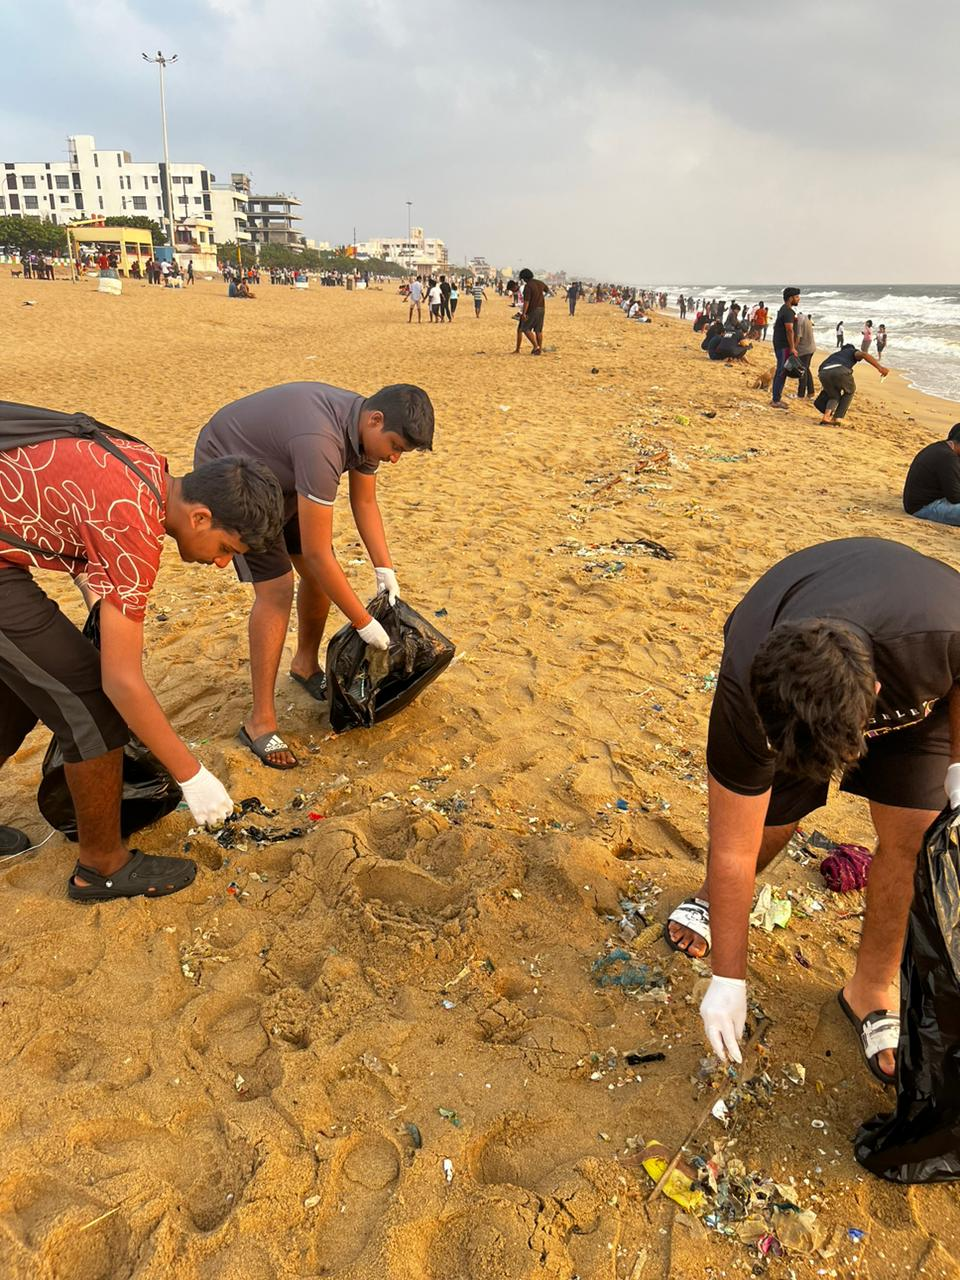
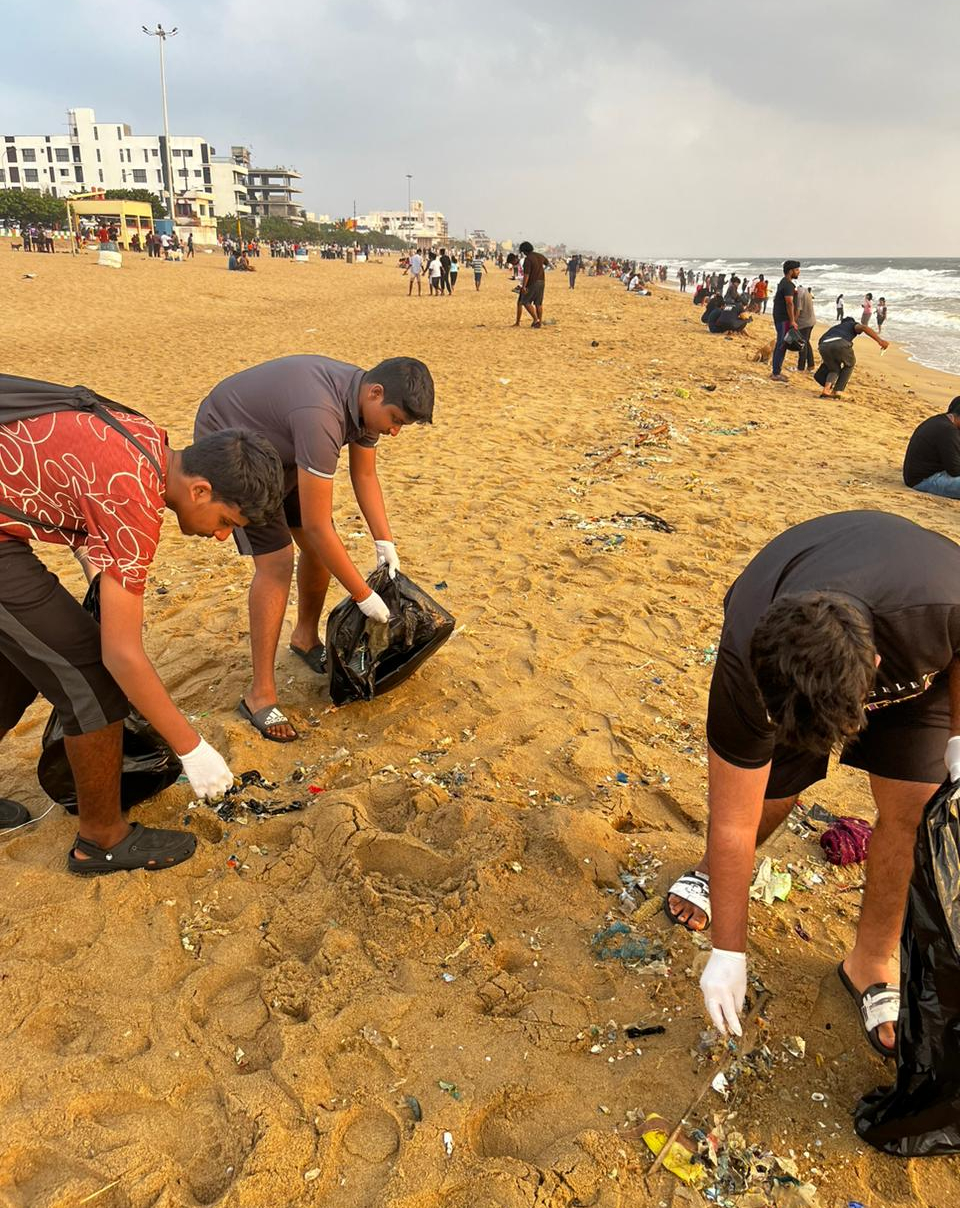
Added new Home page pictures from Chapter 6 and cropped the other images as well. Improved SEO through the new Head component.

diff --git a/src/components/Head.jsx b/src/components/Head.jsx
@@ -1,0 +1,48 @@
+import { Helmet } from "react-helmet-async";
+
+export default function Head({ pageTitle, description }) {
+  return (
+    <Helmet>
+      <title>{pageTitle}</title>
+      <meta name="description" content={description} />
+
+      <meta property="og:title" content={pageTitle} />
+      <meta property="og:description" content={description} />
+      <meta property="og:image" content="/shoreguardians-logo.png" />
+      <meta property="og:url" content="https://shoreguardians.club" />
+      <meta property="og:type" content="website" />
+      <meta property="og:site_name" content="ShoreGuardians" />
+      <meta property="og:locale" content="en_US" />
+      <meta property="og:image:width" content="1200" />
+      <meta property="og:image:height" content="630" />
+
+      <meta name="twitter:card" content="summary_large_image" />
+      <meta name="twitter:title" content={pageTitle} />
+      <meta name="twitter:description" content={description} />
+      <meta name="twitter:image" content="/shoreguardians-logo.png" />
+
+      <link rel="canonical" href="https://shoreguardians.club" />
+
+      <script type="application/ld+json">
+        {`
+        {
+          "@context": "https://schema.org",
+          "@type": "Organization",
+          "name": "ShoreGuardians",
+          "url": "https://shoreguardians.club",
+          "logo": "/shoreguardians-logo.png",
+          "description": "${description}",
+          "author": {
+             "@type": "Person",
+             "name": "Badhri N Hari"
+           },
+          "sameAs": [
+            "https://www.instagram.com/shore.guardians",
+            "https://www.linkedin.com/company/shoreguardians/"
+          ]
+        }
+      `}
+      </script>
+    </Helmet>
+  );
+}

diff --git a/index.html b/index.html
@@ -11,34 +11,10 @@
     <title>ShoreGuardians</title>
 
     <meta
-      name="description"
-      content="Cleaning Chennai's Beaches, One Bag at a Time!"
-    />
-    <meta
       name="keywords"
       content="beach, cleanup, beach cleanup, environment, sustainability, eco-concious, volunteer, student volunteer, chennai, india, chennai student, chennai volunteer, chennai student volunteer, chennai beach, chennai beach cleanup, chennai cleanup, besant nagar, besant nagar beach, elliot's beach, swachh bharat, swachh bharat mission, shore, shoreguardians, ShoreGuardians, high school, high school club, chennai high school club, chennai high school, high school students initiative, students initiative, students, high school student initiative"
     />
     <meta name="author" content="Badhri N Hari" />
-
-    <meta property="og:title" content="ShoreGuardians" />
-    <meta
-      property="og:description"
-      content="Cleaning Chennai's Beaches, One Bag at a Time!"
-    />
-    <meta property="og:image" content="./shoreguardians-logo.png" />
-    <meta property="og:url" content="https://shoreguardians.club" />
-    <meta property="og:type" content="website" />
-    <meta property="og:site_name" content="ShoreGuardians" />
-    <meta property="og:locale" content="en_US" />
-
-    <meta name="twitter:card" content="summary_large_image" />
-    <meta name="twitter:title" content="ShoreGuardians" />
-    <meta
-      name="twitter:description"
-      content="Cleaning Chennai's Beaches, One Bag at a Time!"
-    />
-    <meta name="twitter:image" content="./shoreguardians-logo.png" />
-    <meta name="twitter:site" content="@YourTwitterHandle" />
   </head>
   <body>
     <div id="root"></div>

diff --git a/src/pages/Members.jsx b/src/pages/Members.jsx
@@ -18,6 +18,7 @@ import {
 import Nav from "../components/Nav";
 import MemberCards from "../components/MemberCards";
 import Footer from "../components/Footer";
+import Head from "../components/Head";
 
 export default function Members() {
   const [position, setPosition] = useState({ left: 0, top: 0 });
@@ -144,6 +145,10 @@ export default function Members() {
 
   return (
     <>
+      <Head
+        pageTitle="Members"
+        description="Our club's key members and volunteers."
+      />
       <div
         className="blob"
         style={{

diff --git a/src/pages/Home.jsx b/src/pages/Home.jsx
@@ -1,6 +1,7 @@
 import { useState, useEffect } from "react";
 import { VStack, Stack, StackDivider } from "@chakra-ui/react";
 
+import Head from "../components/Head";
 import Footer from "../components/Footer";
 import Nav from "../components/Nav";
 
@@ -56,6 +57,10 @@ export default function Home() {
 
   return (
     <>
+      <Head
+        pageTitle="ShoreGuardians"
+        description="Cleaning Chennai's Beaches, One Bag at a Time!"
+      />
       <div
         className="blob"
         style={{

diff --git a/src/pages/Recognition.jsx b/src/pages/Recognition.jsx
@@ -1,5 +1,6 @@
 import { useState } from "react";
 
+import Head from "../components/Head";
 import Footer from "../components/Footer";
 import Nav from "../components/Nav";
 
@@ -18,6 +19,10 @@ export default function Recognition() {
 
   return (
     <>
+      <Head
+        pageTitle="Recognitions and Partnerships"
+        description="Our club's recognitions and partnerships."
+      />
       <div
         className="blob"
         style={{
